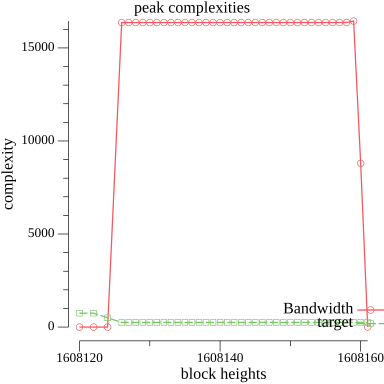
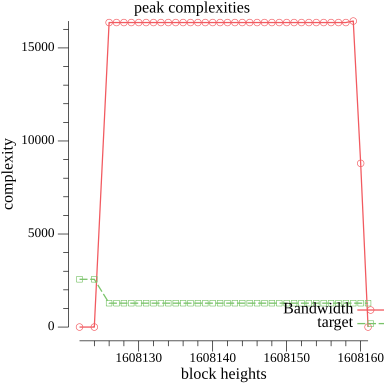
ACP-83: change fee update algorithm (#97)
* updates following comments

* addressed comments

* changed fee update algorithm

* fixed Denom

* updated simulations with new algo

* grammar

* nits

* nits

* some rewording

* simplified math formula

* nit

diff --git a/ACPs/83-dynamic-multidimensional-fees/README.md b/ACPs/83-dynamic-multidimensional-fees/README.md
@@ -1,7 +1,7 @@
 ```text
 ACP: 83
 Title: Dynamic multidimensional fees for P-chain and X-chain
-Author(s): Alberto Benegiamo
+Author(s): Alberto Benegiamo <https://github.com/abi87>
 Discussions-To: https://github.com/avalanche-foundation/ACPs/discussions/89
 Status: Proposed
 Track: Standards
@@ -15,7 +15,6 @@ Dynamic fees helps to preserve the stability of the chain as it provides a feedb
 
 Multidimensional fees ensures that high demand for orthogonal resources does not drive up the price of underutilized resources. For example, networks provide and consume orthogonal resources including, but not limited to, bandwidth, chain state, read/write throughput, and CPU. By independently metering each resource, they can be granularly priced and stay closer to optimal resource utilization.
 
-
 ## Motivation
 
 The P-Chain and X-Chain currently have fixed fees and in some cases those fees are fixed to zero.
@@ -24,18 +23,20 @@ This makes transaction issuance predictable, but does not provide feedback mecha
 
 However, unlike the C-Chain, we propose a multidimensional fee scheme with an exponential update rule for each fee dimension. The [HyperSDK](https://github.com/ava-labs/hypersdk) already utilizes a multidimensional fee scheme with optional priority fees and its efficiency is backed by [academic research](https://arxiv.org/abs/2208.07919).
 
+Finally, we split the fee into two parts: a `base fee` and a `priority fee`. The `base fee` is calculated by the network each block to accurately price each resource at a given point in time. Whatever amount greater than the base fee is burnt is treated as the `priority fee` to prioritize faster transaction inclusion.
+
 ## Specification
 
 We introduce the multidimensional scheme first and then how to apply the dynamic fee update rule for each fee dimension. Finally we list the new block verification rules, valid once the new fee scheme activates.
 
 ### Multidimensional scheme components
 
-We define four fee dimensions, `Bandwidth`, `UXTOsReads`, `UTXOsWrites`, `Compute`, to describe transactions complexity. In more details:
+We define four fee dimensions, `Bandwidth`, `Reads`, `Writes`, `Compute`, to describe transactions complexity. In more details:
 
-- `Bandwidth` measures the transaction size in bytes, a proxy for the network resources needed to disseminate the transaction.
-- `UXTOsReads` measures the number of UTXOs referenced as inputs of the transactions, a proxy for the chain state reads needed to verify the transaction.
-- `UTXOsWrites` measures the number of UTXOs generated as outputs of the transactions, a proxy for the chain state writes needed to store the transaction.
-- `Compute` meters the complexity of signatures verifications, both UTXOs ones and those related to authorization of specific operations.
+- `Bandwidth` measures the transaction size in bytes, as encoded by the AvalancheGo codec. Byte length is a proxy for the network resources needed to disseminate the transaction.
+- `Reads` measures the number of DB reads needed to verify the transactions. DB reads include UTXOs reads and any other state quantity relevant for the specific transaction.
+- `Writes` measures the number of DB writes following the transaction verification. DB writes include UTXOs generated as outputs of the transactions and any other state quantity relevant for the specific transaction.
+- `Compute` measures the number of signatures to be verified, including UTXOs ones and those related to authorization of specific operations.
 
 For each fee dimension $i$, we define:
 
@@ -47,32 +48,58 @@ $$base \  fee = \sum_{i=0}^3 r_i \times u_i$$
 ### Dynamic scheme components
 
 Fee rates are updated in time, to allow a fee increase when network is getting congested. Each new block is a potential source of congestion, as its transactions carry complexity that each validator must process to verify and eventually accept the block. The more complexity carries a block, and the more rapidly blocks are produced, the higher the congestion.  
-We seek a scheme that rapidly increases the fees when blocks complexity goes above a defined threshold and that equally rapidly decreases the fees once complexity goes down (because blocks carry less/simpler transactions, or because they are produced more slowly).
 
-Suppose that a block $B$ is the current chain tip. $B$ has the following features:
+We seek a scheme that rapidly increases the fees when blocks complexity goes above a defined threshold and that equally rapidly decreases the fees once complexity goes down (because blocks carry less/simpler transactions, or because they are produced more slowly). We define the desired threshold as a *target complexity rate* $T$: we would want to process every second a block whose complexity is $T$. Any complexity more than that causes some congestion that we want to penalize via fees.
+
+In order to update fees rates we track, per each block and each fee dimension, a parameter called cumulative excess complexity. Fee rates applied to a block will be defined in terms of cumulative excess complexity as we show in the following.
+
+Suppose that a block $B_t$ is the current chain tip. $B_t$ has the following features:
 
 - $t$ is its timestamp.
-- $B_i$ is the cumulated complexity of all its transactions along the fee dimension $i$.
-- $r_{i,t}$ is the fee rate applied to all of its transactions along the fee dimension $i$.
+- $\Delta C_t$ is the cumulative excess complexity along fee dimension $i$.
 
-A new block is incoming, whose timestamp is $t + \Delta T$.  
-We wish to maintain a *target complexity rate* $T_i$, i.e. we would want to process every second a block whose cumulated complexity is $T_i$. Any complexity more than that causes some congestion that we want to penalize via fees; any congestion below $T_i$ causes the network to be under utilized.
+Say a new block $B_{t + \Delta T}$ is built on top of $B$, with the following features:
 
-The fee rates $r_{i,t+\Delta T}$ applied to the incoming blocks are defined with the following *update formula*:
+- $t + \Delta T$ is its timestamp
+- $C_{t + \Delta T}$ is its complexity along fee dimension $i$.
 
-$$r_{i,t+\Delta T} = max \bigl( r^{min}_i, e^{k_i \frac{B_i-T_i \times \Delta T}{T_i \times \Delta T}} \bigr)$$
+Then the fee rate $r_{t + \Delta T}$ applied for the block $B_{t + \Delta T}$ along dimension $i$ will be:
 
-where $r^{min}_i$ and $k_i$ are the minimal fee rate allowed and the update constants along dimension $i$ respectivelly.
+$$ r_{t + \Delta T} = r^{min} \times e^{\frac{max(0, \Delta C_t - T \times \Delta T)}{Denom}} $$
 
-The update formula guarantees that fee rates increase if parent block is complex (large $B_i$) and if blocks are emitted rapidly (small $\Delta T$). Simmetrically fee rates decrease if parent block is less complex and if blocks are produced less frequently. We introduce a minimal, non-zero fee rate, to avoid fee rates reaching zero, which would cause any subsequent fee to be zero as well.  
+where
+
+- $r^{min}$ is the minimal fee rate along fee dimension $i$
+- $T$ is the target complexity rate along fee dimension $i$
+- $Denom$ is a normalization constant for the fee dimension $i$
+
+Moreover, once the block $B_{t + \Delta T}$ is accepted, the cumulative excess complexity is updated as follows:
+
+$$\Delta C_{t + \Delta T} = max\large(0, \Delta C_{t} - T \times \Delta T\large) + C_{t + \Delta T}$$
+
+The fee rate update formula guarantees that fee rates increase if incoming blocks are complex (large $C_{t + \Delta T}$) and if blocks are emitted rapidly (small $\Delta T$). Symmetrically, fee rates decrease to the minimum if incoming blocks are less complex and if blocks are produced less frequently.  
 The update formula has a few paramenters to be tuned, independently, for each fee dimension. We defer discussion about tuning to the [implementation section](#tuning-the-update-formula).
 
 ## Block verification rules
 
 Upon activation of the dynamic multidimensional fees scheme we modify block processing as follows:
 
-- **Bound block complexity**. For each fee dimension $i$, we define a *maximal block complexity* $C_i$. A block is only valid if the block complexity $B_i$ is less than the maximum block complexity: $B_i \leq C_i$.
+- **Bound block complexity**. For each fee dimension $i$, we define a *maximal block complexity* $Max$. A block is only valid if the block complexity $C$ is less than the maximum block complexity: $C \leq Max$.
 - **Verify transaction fee**. When verifying each transaction in a block, we confirm that it can cover its own base fee. Note that both base fee and optional priority fees are burned.
+
+## User Experience
+
+### How will the wallets estimate the fees?
+
+AvalancheGo nodes will provide new APIs exposing the current and expected fee rates, as they are likely to change block by block. Wallets can then use the fees rates to select UTXOs to pay the transaction fees. Moreover, the AvalancheGo implementation proposed above offers a `fees.Calculator` struct that can be reused by wallets and downstream projects to evaluate calculate fees.
+
+### How will wallets be able to re-issue Txs at a higher fee?
+
+Wallets should be able to simply re-issue the transaction since current AvalancheGo implementation drops mempool transactions whose fee rate is lower than current one. More specifically, a transaction may be valid the moment it enters the mempool and it won’t be re-verified as long as it stays in there. However, as soon as the transaction is selected to be included in the next block, it is re-verified against the latest preferred tip. If fees are not enough by this time, the transaction is dropped and the wallet can simply re-issue it at a higher fee, or wait for the fee rate to go down. Note that priority fees offer some buffer space against an increase in the fee rate. A transaction paying just the base fee will be evicted from the mempool in the face of a fee rate increase, while a transaction paying some extra priority fee may have enough buffer room to stay valid after some amount of fee increase.
+
+### How does priority fees guarantee a faster block inclusion?
+
+AvalancheGo mempool will be restructured to order transactions by priority fees. Transactions paying priority fees will be selected for block inclusion first, without violating any spend dependency.
 
 ## Backwards Compatibility
 
@@ -92,8 +119,8 @@ A very important implementation step is tuning the update formula parameters for
 The basic idea is to measure the complexity of blocks already accepted and derive the parameters from it. You can find the historical data in [this repo](https://github.com/abi87/complexities).  
 To simplify the exposition I am purposefully ignoring chain specifics (like P-chain proposal blocks). We can account for chain specifics while processing the historical data. Here are the principles:
 
-- **Target block complexity rate**: calculate the distribution of block complexity and pick a high enough quantile.
-- **Max block complexity**: this is probably the trickiest parameter to set.
+- **Target block complexity rate $T$**: calculate the distribution of block complexity and pick a high enough quantile.
+- **Max block complexity $Max$**: this is probably the trickiest parameter to set.
 Historically we had [pretty big transactions](https://subnets.avax.network/p-chain/tx/27pjHPRCvd3zaoQUYMesqtkVfZ188uP93zetNSqk3kSH1WjED1) (more than $1.000$ referenced utxos). Setting a max block complexity so high that these big transactions are allowed is akin to setting no complexity cap.
 On the other side, we still want to allow, even encourage, UTXO consolidation, so we may want to allow transactions [like this](https://subnets.avax.network/p-chain/tx/2LxyHzbi2AGJ4GAcHXth6pj5DwVLWeVmog2SAfh4WrqSBdENhV).
 A principled way to set max block complexity may be the following:
@@ -101,15 +128,10 @@ A principled way to set max block complexity may be the following:
   - calculate the median time elapsed among consecutive blocks
   - The product of these two quantities should gives us something like a target block complexity.
   - Set the max block complexity to say $\times 50$ the target value.
-- **Update coefficient**: this is the $k_i$ parameter in the exponential fee update. I suggest we size it as follows:
+- **Normalization coefficient $Denom$**: I suggest we size it as follows:
   - Find the largest historical peak, i.e. the sequence of consecutive blocks which contained the most complexity in the shortest period of time
-  - Tune $k_i$ so that it would cause a $\times 10000$ increase in the fee rate for such a peak. This increase would push fees from the milliAVAX we normally pay under stable network condition up to tens of AVAX.
-- **Initial fee rates** : this is the initial base fee set at activation.
- We could size them so that transactions fees do not change very much with respect to the currently fixes values.
- Note that we do currently support zero fees transactions, which are not allowed in the new fee scheme.  Zero fee transactions would immediately see the largest increase when dynamic fees kick in. Still we could make the change as small as possible
-- **Minimal fee rates** :  these are required since we cannot have zero fee rates in our dynamic fees proposal.
-  We update fee rates via a multiplicative process so as soon as a fee rate is zero all sequent fee rates would be zero.
-  We could set minimal fee rates to equal to initial fee rates or to a fraction of them.
+  - Tune  $Denom$ so that it would cause a $\times 10000$ increase in the fee rate for such a peak. This increase would push fees from the milliAVAX we normally pay under stable network condition up to tens of AVAX.
+- **Minimal fee rates $r^{min}$**: we could size them so that transactions fees do not change very much with respect to the currently fixed values.
 
 We simulate below how the update formula would behave on an peak period from Avalanche mainnet.
 
@@ -126,20 +148,6 @@ Figure 2 show the fee dynamic in response to the peak: fees scale up from a few 
 
 The new fee scheme is expected to help network stability as it offers economic incentives to users to hold transactions issuance in times of high load. While fees are expected to remain generally low when the system is not loaded, a sudden load increase, with fuller blocks, would push the dynamic fees algo to increase fee rates. The increase is expected to continue until the load is reduced. Load reduction happens by both dropping unconfirmed transactions whose fee-rate is not sufficient anymore and by pushing users that optimize their transactions costs to delay transaction issuance until the fee rate goes down to an acceptable level.  
 Note finally that the exponential fee update mechanism detailed above is [proven](https://ethresear.ch/t/multidimensional-eip-1559/11651) to be robust against strategic behaviors of users delaying transactions issuance and then suddenly push a bulk of transactions once the fee rate is low enough.
-
-## Open Questions
-
-### How will the wallets estimate the fees?
-
-AvalancheGo nodes will provide new APIs exposing the current and expected fee rates, as they are likely to change block by block. Wallets can then use the fees rates to select UTXOs to pay the transaction fees. Moreover Avalanchego implementation proposed above offers a `fees.Calculator` struct that can be reused by wallets and downstreams to evaluate calculate fees.
-
-### How will wallets be able to re-issue transactions at a higher fee?
-
-Wallets should be able to simply re-issue the transaction since current AvalancheGo implementation drops mempool transactions whose fee rate is lower than current one. More specifically, a transaction may be valid the moment it enters the mempool and it won’t be re-verified as long as it stays in there. However, as soon as the transaction is selected to be included in the next block, it is re-verified against the latest preferred tip. If fees are not enough by this time, the transaction is dropped and the wallet can simply re-issue it at a higher fee, or wait for the fee rate to go down. Note that priority fees offer some buffer space against an increase in the fee rate. A transaction paying just the base fee will be evicted from the mempool in the face of a fee rate increase, while a transaction paying some extra priority fee may have enough buffer room to stay valid after some amount of fee increase.
-
-### How does priority fees guarantee a faster block inclusion?
-
-AvalancheGo mempool will be restructured to order transactions by priority fees. Transactions paying priority fees will be selected for block inclusion first, without violating any spend dependency.
 
 ## Acknowledgements
 

diff --git a/README.md b/README.md
@@ -111,7 +111,7 @@ _You can view the status of each ACP on the [ACP Tracker](https://github.com/org
 |[62](./ACPs/62-disable-addvalidatortx-and-adddelegatortx/README.md)|Disable `AddValidatorTx` and `AddDelegatorTx`|Jacob Everly (https://twitter.com/JacobEv3rly), Dhruba Basu (https://github.com/dhrubabasu)|Standards|
 |[75](./ACPs/75-acceptance-proofs/README.md)|Acceptance Proofs|Joshua Kim (https://github.com/joshua-kim)|Standards|
 |[77](./ACPs/77-reinventing-subnets/README.md)|Reinventing Subnets|Dhruba Basu (https://github.com/dhrubabasu)|Standards|
-|[83](./ACPs/83-dynamic-multidimensional-fees/README.md)|Dynamic Multidimensional Fees for P-Chain and X-Chain|Alberto Benegiamo|Standards|
+|[83](./ACPs/83-dynamic-multidimensional-fees/README.md)|Dynamic Multidimensional Fees for P-Chain and X-Chain|Alberto Benegiamo (https://github.com/abi87)|Standards|
 |[84](./ACPs/84-table-preamble/README.md)|Table Preamble for ACPs|Gauthier Leonard (https://github.com/Nuttymoon)|Meta|
 |[103](./ACPs/103-dynamic-fees/README.md)|Add Dynamic Fees to the X-Chain and P-Chain|Dhruba Basu (https://github.com/dhrubabasu), Alberto Benegiamo (https://github.com/abi87), Stephen Buttolph (https://github.com/StephenButtolph)|Standards|
 |[108](./ACPs/108-evm-event-importing/README.md)|EVM Event Importing|Michael Kaplan (https://github.com/mkaplan13)|Best Practices|
